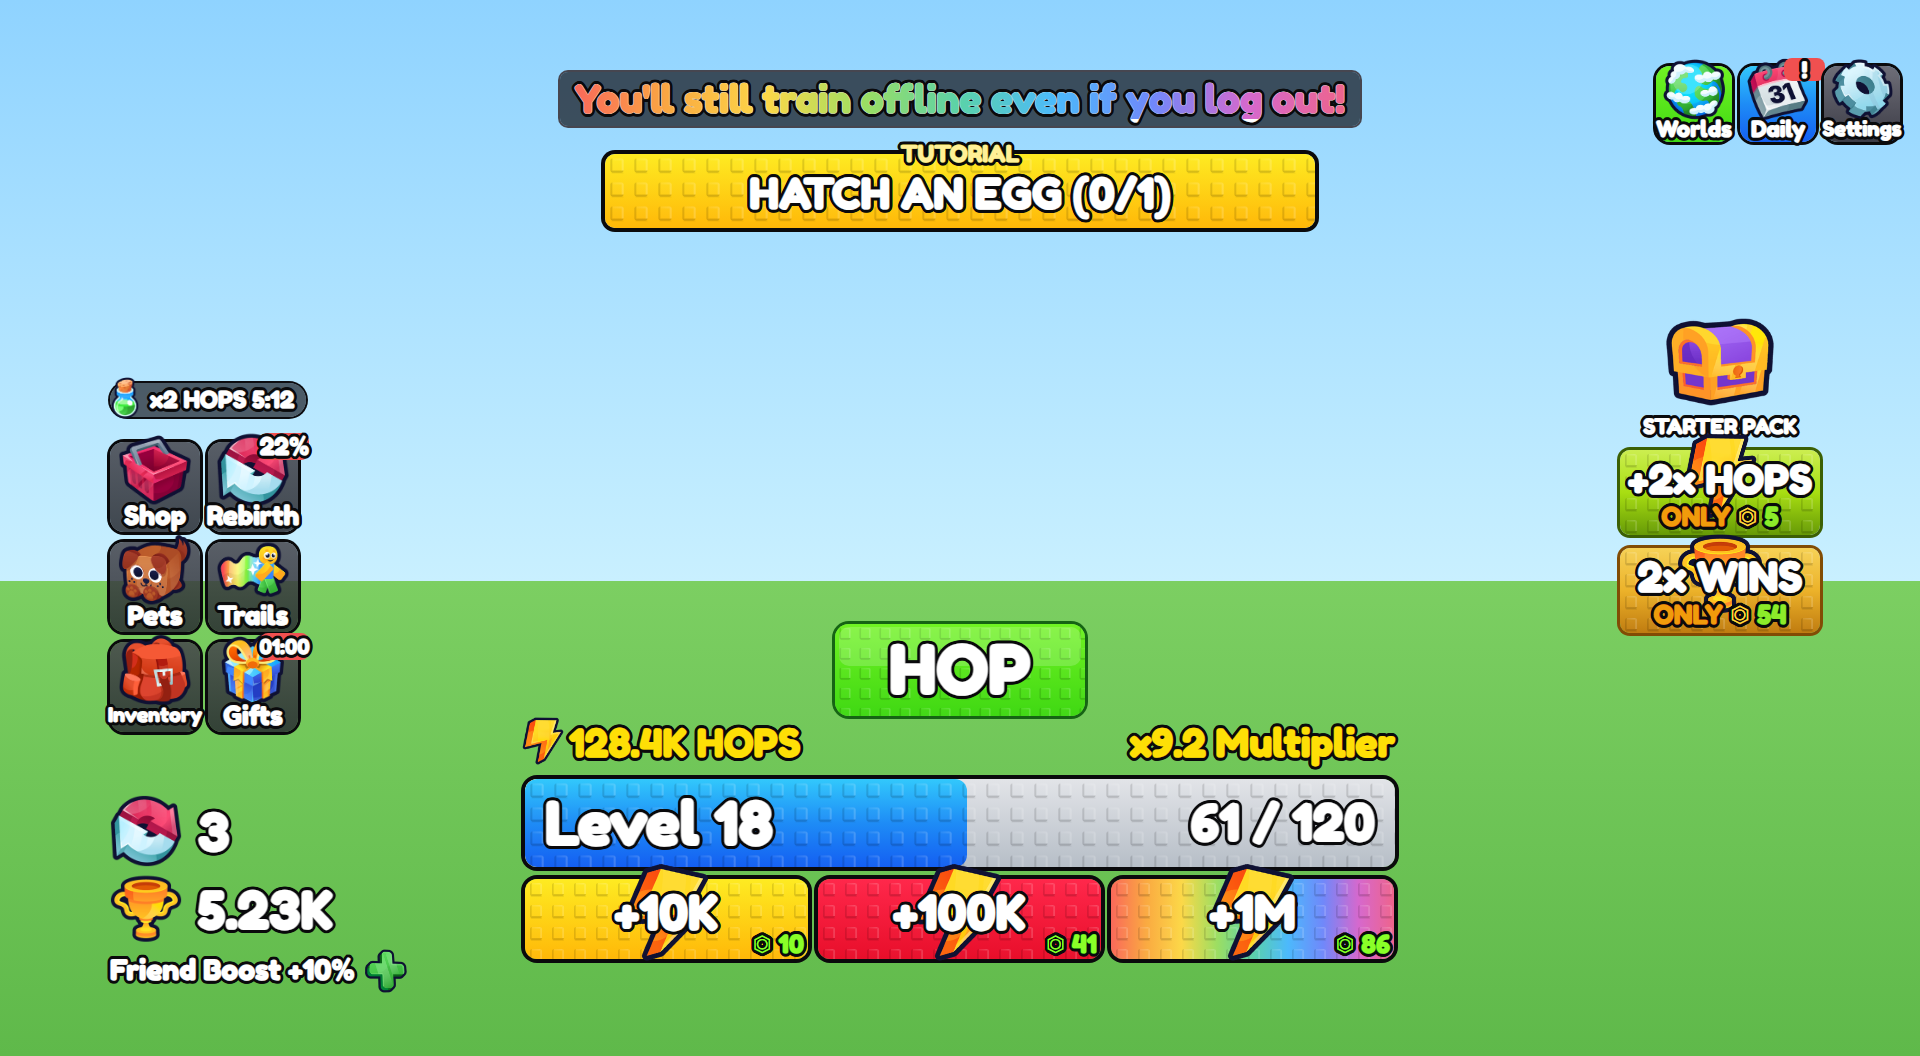
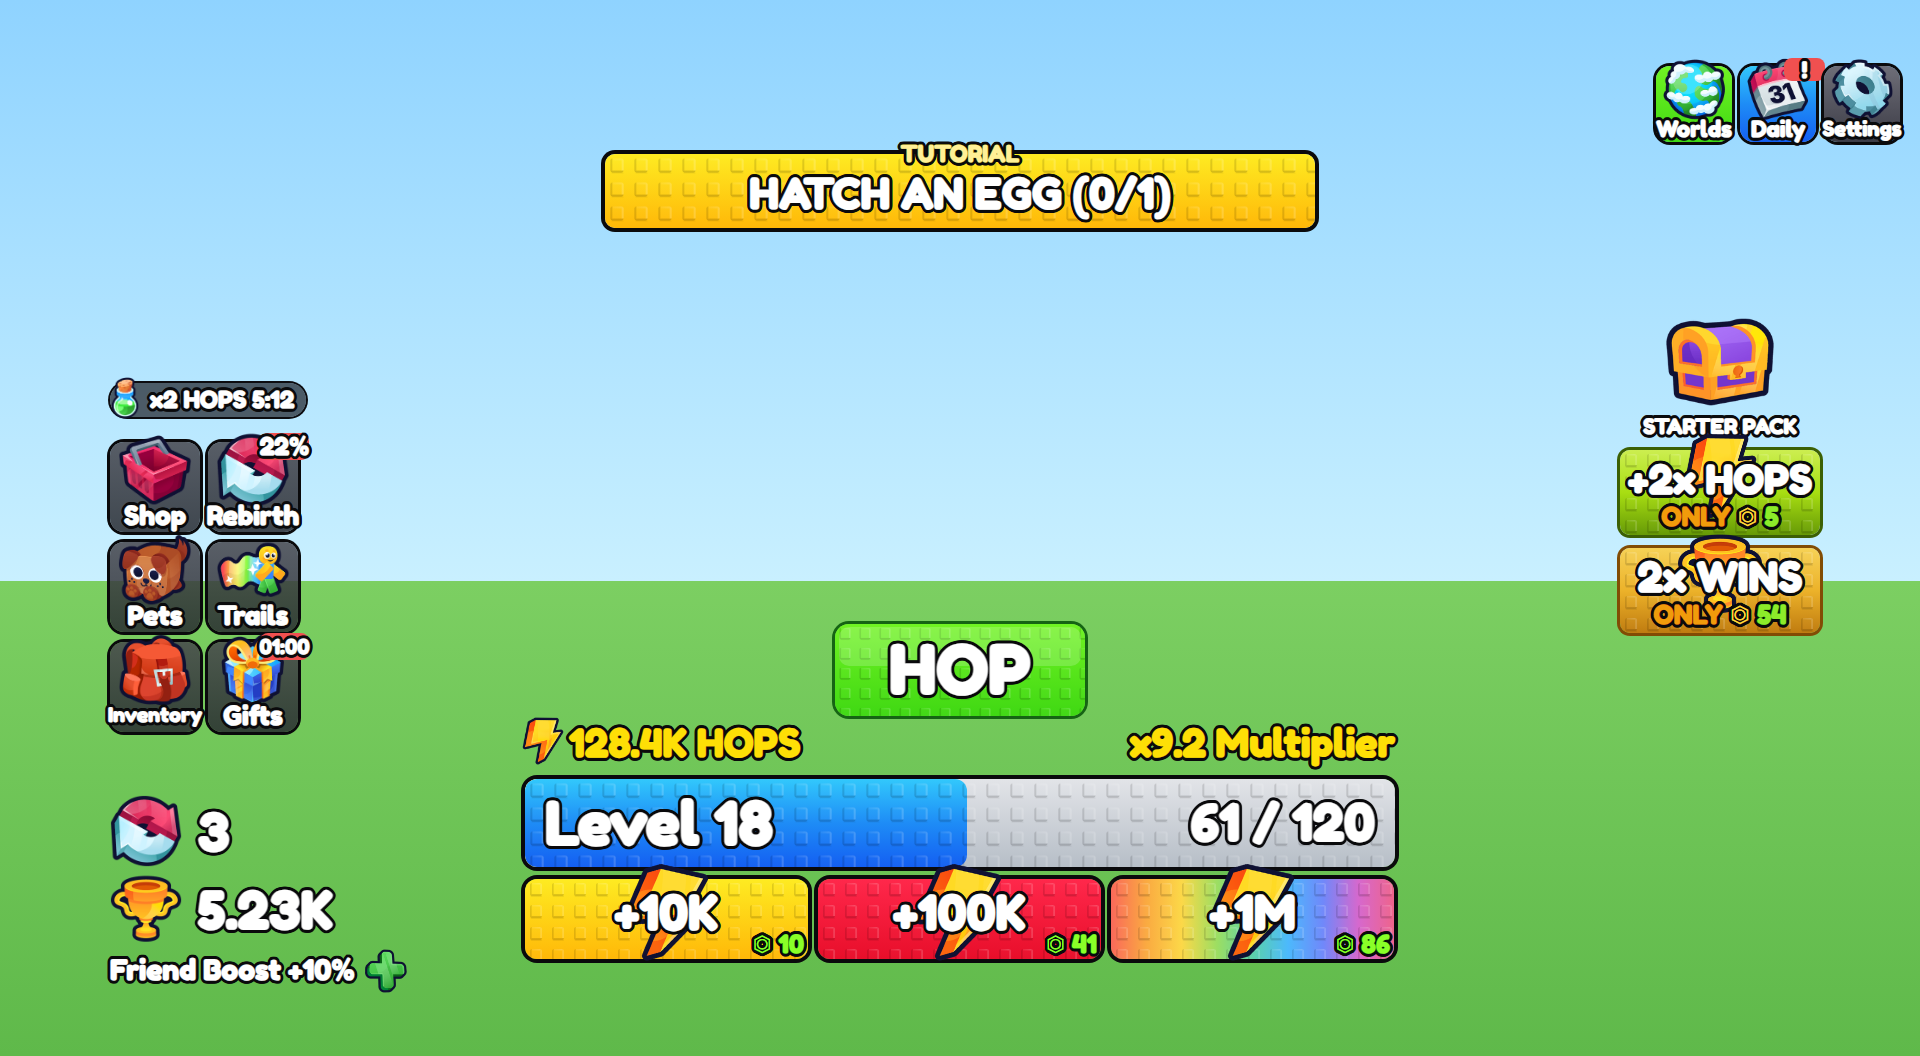
Tip box: only the offline-training line, only while the escape menu is open

Changed region(s): [[0.2812, 0.0625, 0.7188, 0.125]]

diff --git a/docs/Devlog/2026-10-12.md b/docs/Devlog/2026-10-12.md
@@ -60,3 +60,4 @@ tags: [devlog]
 - **Pixel-match pass (Playtime Rewards, Rebirth, Shop):** each window overlaid on its reference screenshot and fixed until they line up. Found the screenshots include the 23 px Windows title bar, so the design view is now **1920×1056** with menus centred on the whole view, and the **whole HUD hides** while a menu is open (like the reference). Gifts renamed **Playtime Rewards**: 12 rewards copied from the reference (Hops, Wins, boosts and Common/Uncommon/Rare eggs, which now hatch a pet straight into your inventory), 201×189 tier-coloured cards (blue/purple/orange/rainbow rows), green Claim / red 00:00:00 bars, dark claimed cards with a tick, ready cards pulse. New studs texture drawn to the reference bevel. Titles are now a fixed size with a 3 px outline and solid shadow; close button is a flat red square with a dark-red × outline. Rebirth and Shop use the reference's near-square 910×614 window with a thin edge; Starter Pack card has the black edge + gold rim and outlined title. Uncommon/Rare eggs are vectors (not in the icon pack). **Rule change:** rebirthing no longer resets Wins (only Hops and Level).
 - **Colour match:** sampled the gradients down/across the reference cards and retuned ours (they were lighter and greyer): Playtime card tiers more saturated with darker bottoms, rainbow card with bands at the reference heights, faint same-hue rays instead of white ones, green bars with a yellow-green shine, Blue preset cyan → royal blue, a 9-colour pastel Rainbow (Starter Pack, +1M), and new Lime / Gold presets for the HUD +2x Hops / 2x Wins cards.
 - **Images uploaded:** Studio still showed emoji icons and no studs because every `UiImages` id was 0 (the preview tool draws the local PNGs). Uploaded icons/icons2/icons3/studs/pets/frogs through Studio and filled in the ids. Any time a sheet is regenerated it needs re-uploading and a new id.
+- **Top tip box:** no longer cycles tips during play. It shows only "You'll still train offline even if you log out!" and only while the Roblox escape menu is open (`GuiService.MenuOpened/MenuClosed`), like the reference.
